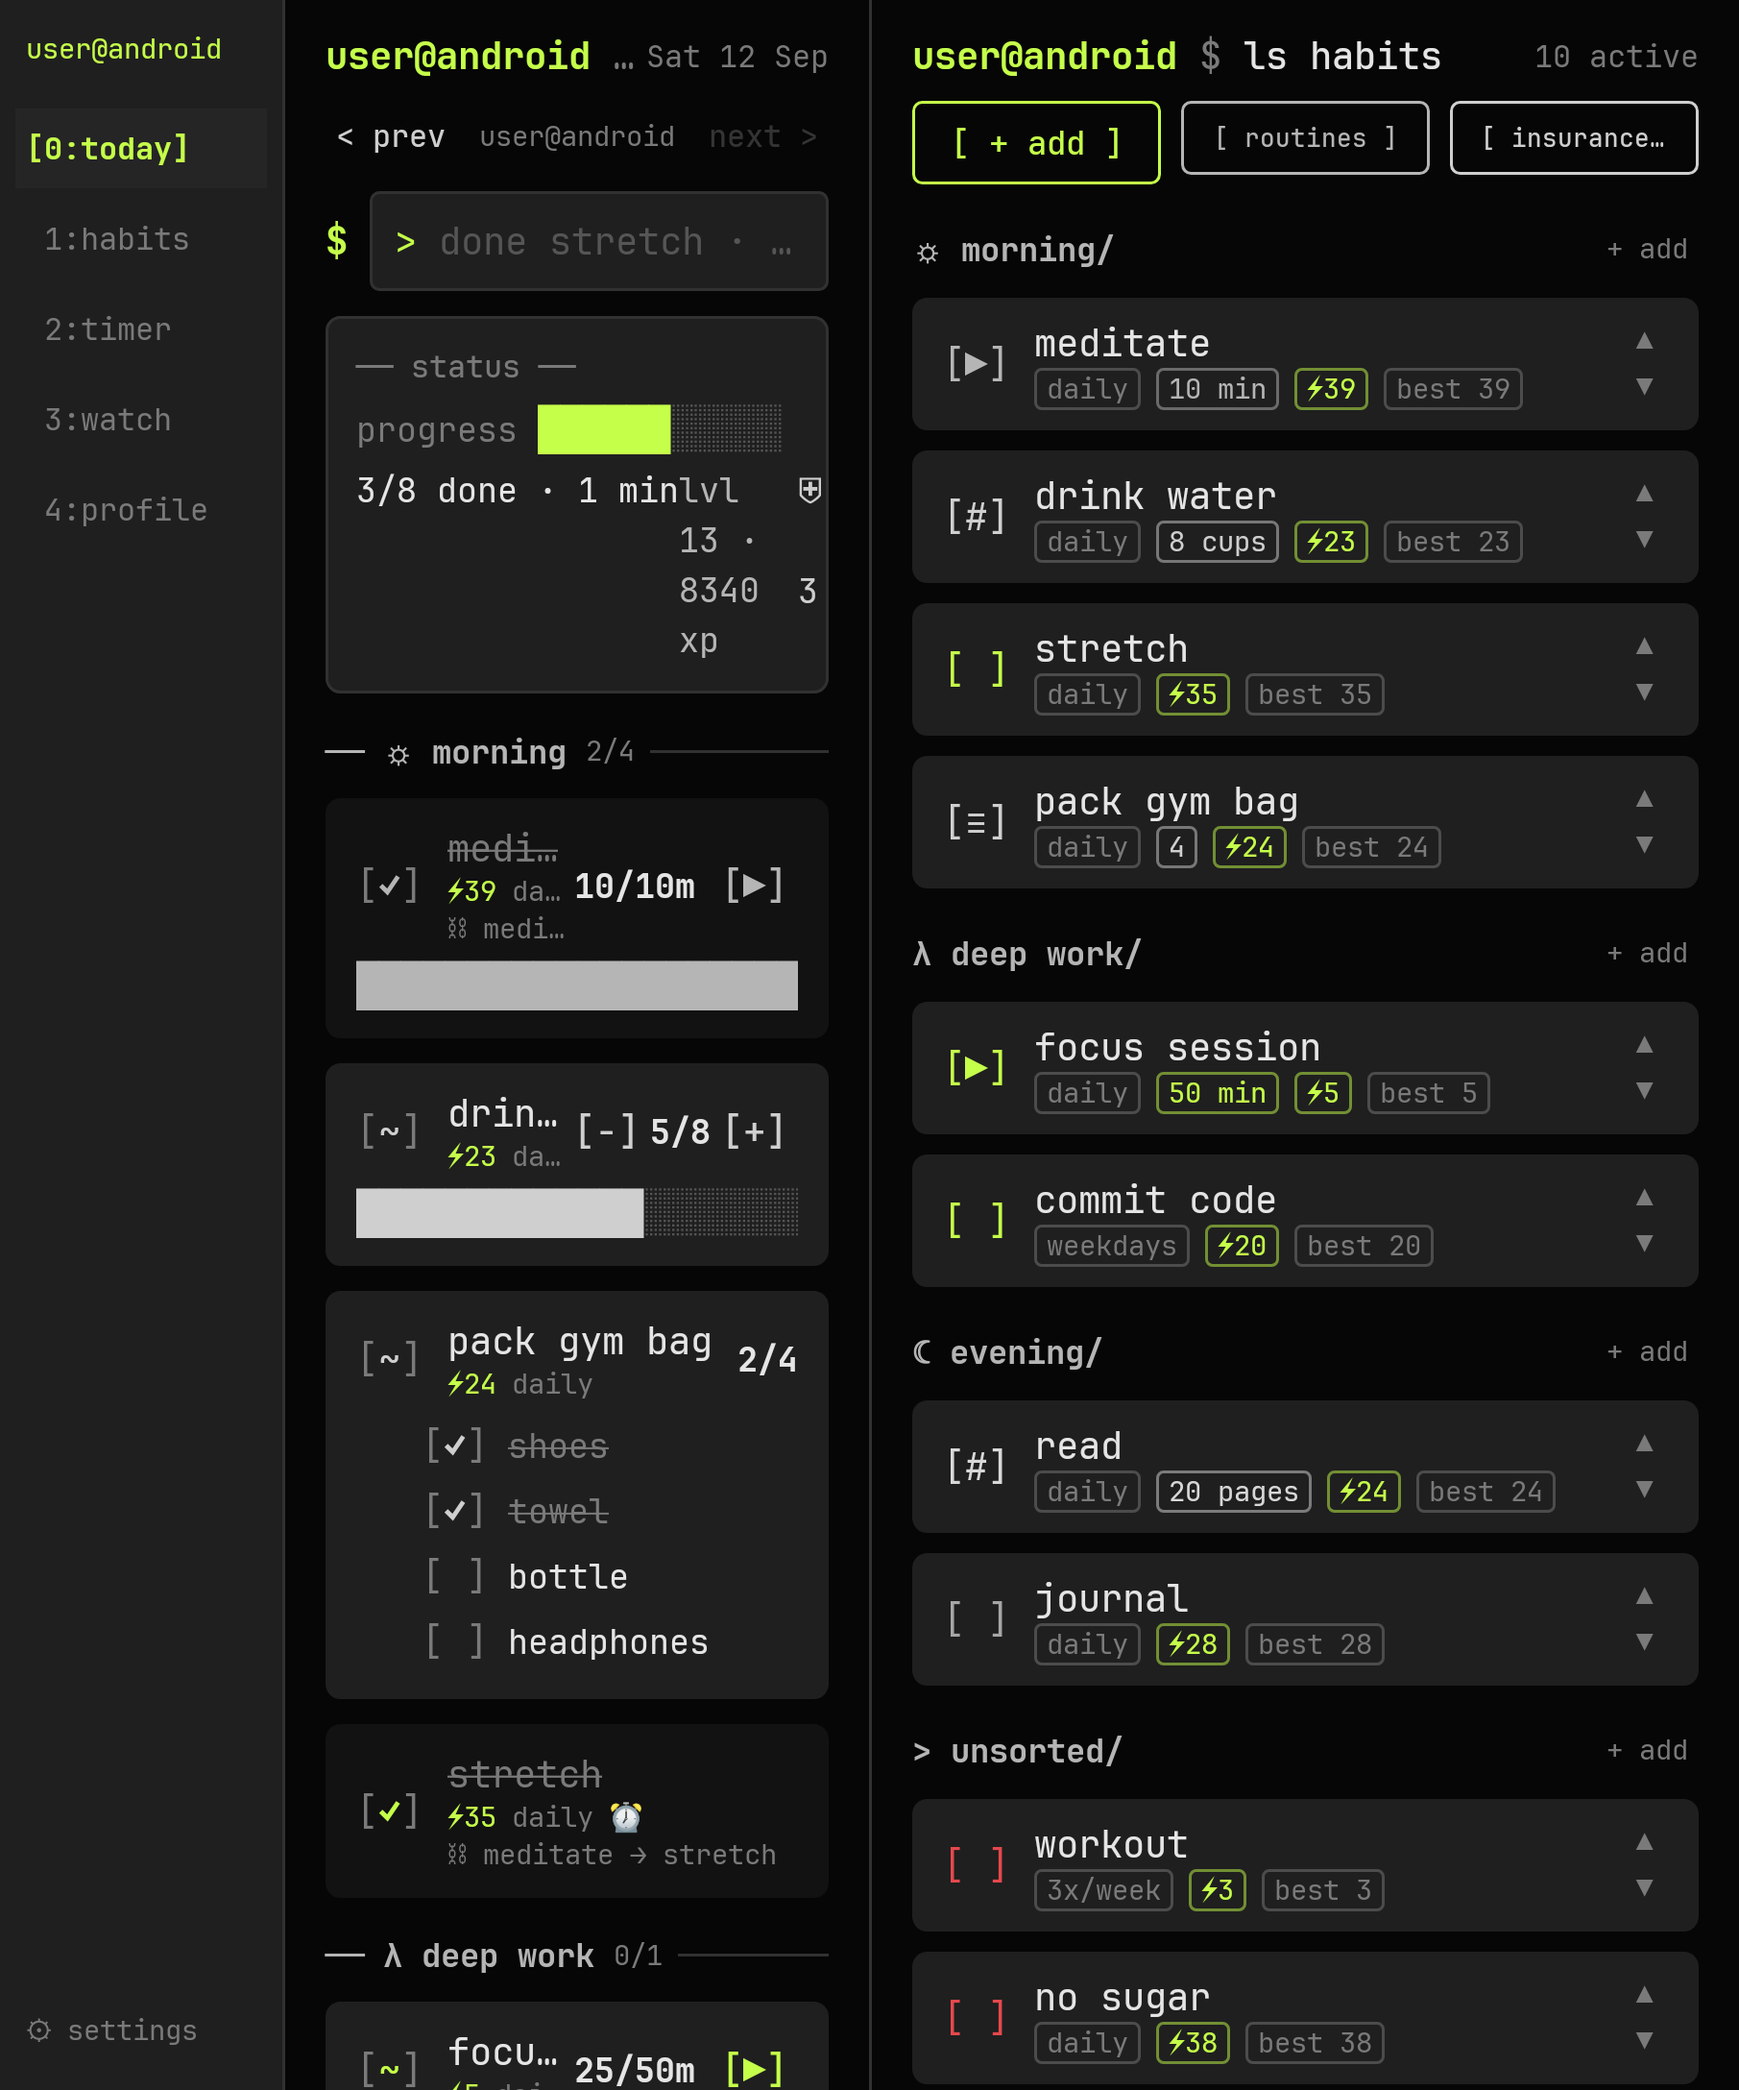
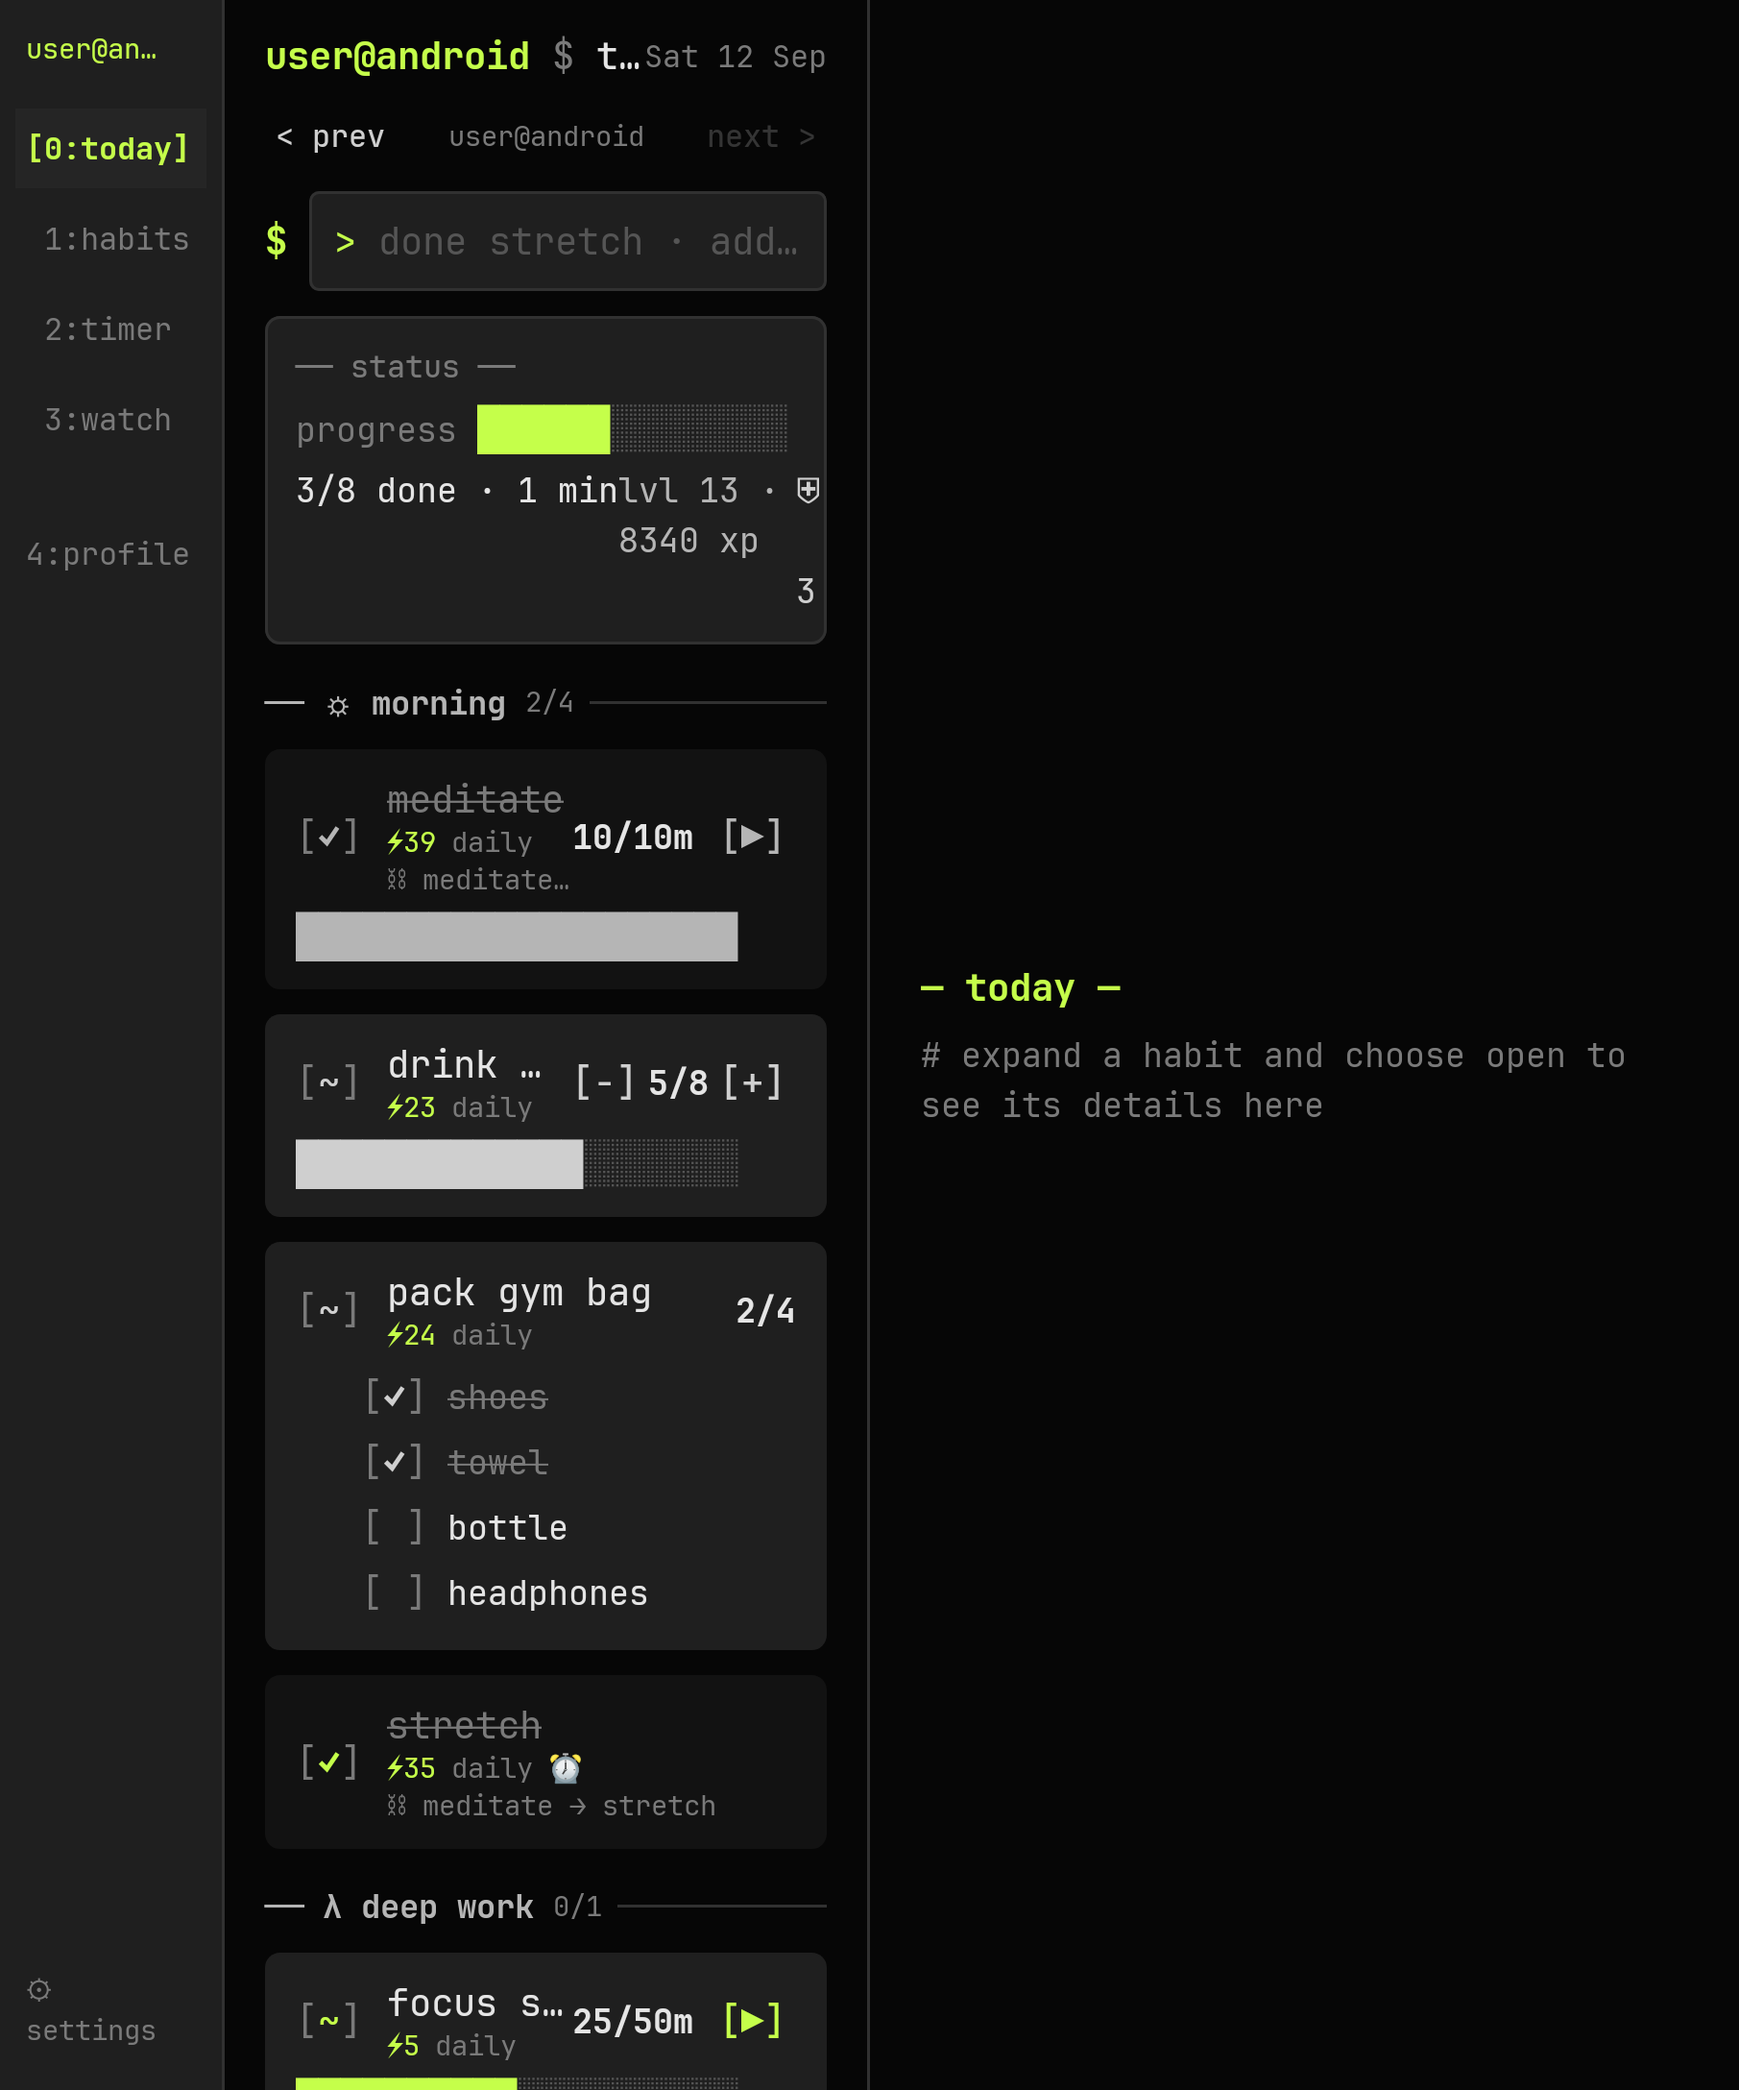
test: update foldable master-detail golden

diff --git a/app/src/test/java/dev/personalterminal/screenshots/FoldScreenshotSuite.kt b/app/src/test/java/dev/personalterminal/screenshots/FoldScreenshotSuite.kt
@@ -14,6 +14,8 @@ import androidx.compose.runtime.Composable
 import androidx.compose.ui.Modifier
 import androidx.compose.ui.test.junit4.ComposeContentTestRule
 import androidx.compose.ui.test.junit4.createAndroidComposeRule
+import androidx.compose.ui.test.onNodeWithText
+import androidx.compose.ui.test.performClick
 import androidx.navigation.compose.rememberNavController
 import androidx.test.core.app.ApplicationProvider
 import androidx.test.ext.junit.runners.AndroidJUnit4
@@ -25,6 +27,7 @@ import dev.personalterminal.timer.PomodoroService
 import dev.personalterminal.timer.TimerState
 import dev.personalterminal.ui.habits.HabitEditScreen
 import dev.personalterminal.ui.navigation.AppScaffold
+import dev.personalterminal.ui.navigation.Routes
 import dev.personalterminal.ui.navigation.StatusLine
 import dev.personalterminal.ui.navigation.Tab
 import dev.personalterminal.ui.theme.Term
@@ -114,12 +117,18 @@ private fun shootApp(
     activity: Activity,
     app: PersonalTerminalApp,
     name: String,
+    startRoute: String? = null,
+    selectText: String? = null,
 ) {
     val settings = baseSettings(onboarded = true)
     rule.setContent {
         TerminalTheme(settings) {
-            AppScaffold(app = app, settings = settings, startRoute = null, onRouteConsumed = { })
+            AppScaffold(app = app, settings = settings, startRoute = startRoute, onRouteConsumed = { })
         }
+    }
+    if (selectText != null) {
+        rule.waitForIdle()
+        rule.onNodeWithText(selectText).performClick()
     }
     settleAndCapture(rule, activity, name)
 }
@@ -210,6 +219,10 @@ class InnerSplitSuite {
     @After fun unstub() { WindowInfoTracker.reset() }
 
     @Test fun splitAtHinge() = shootApp(rule, rule.activity, app, "37-inner-split")
+
+    @Test fun selectedHabitDetailsOnFarPane() = shootApp(
+        rule, rule.activity, app, "39-fold-habit-detail", startRoute = Routes.HABITS, selectText = "meditate",
+    )
 }
 
 // ------------------------------------------------------------------ Flex Mode / tabletop (landscape + hinge)
